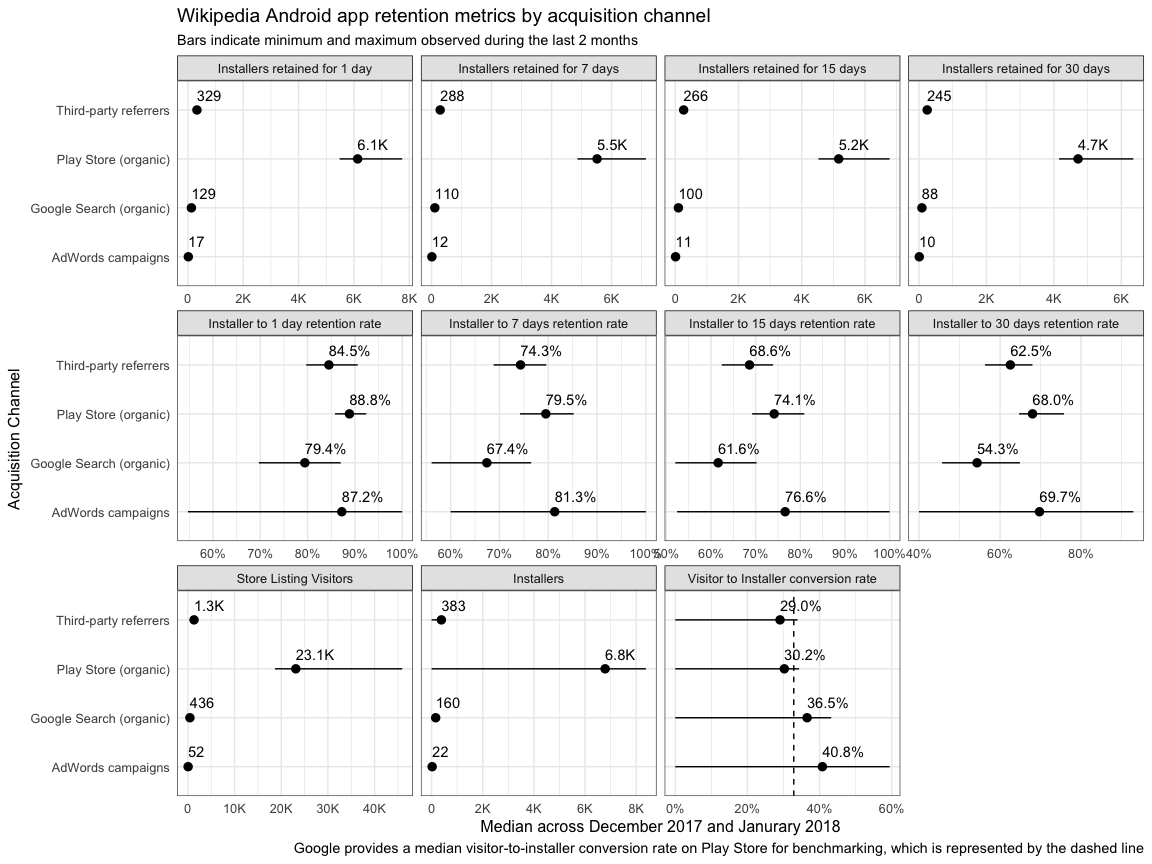
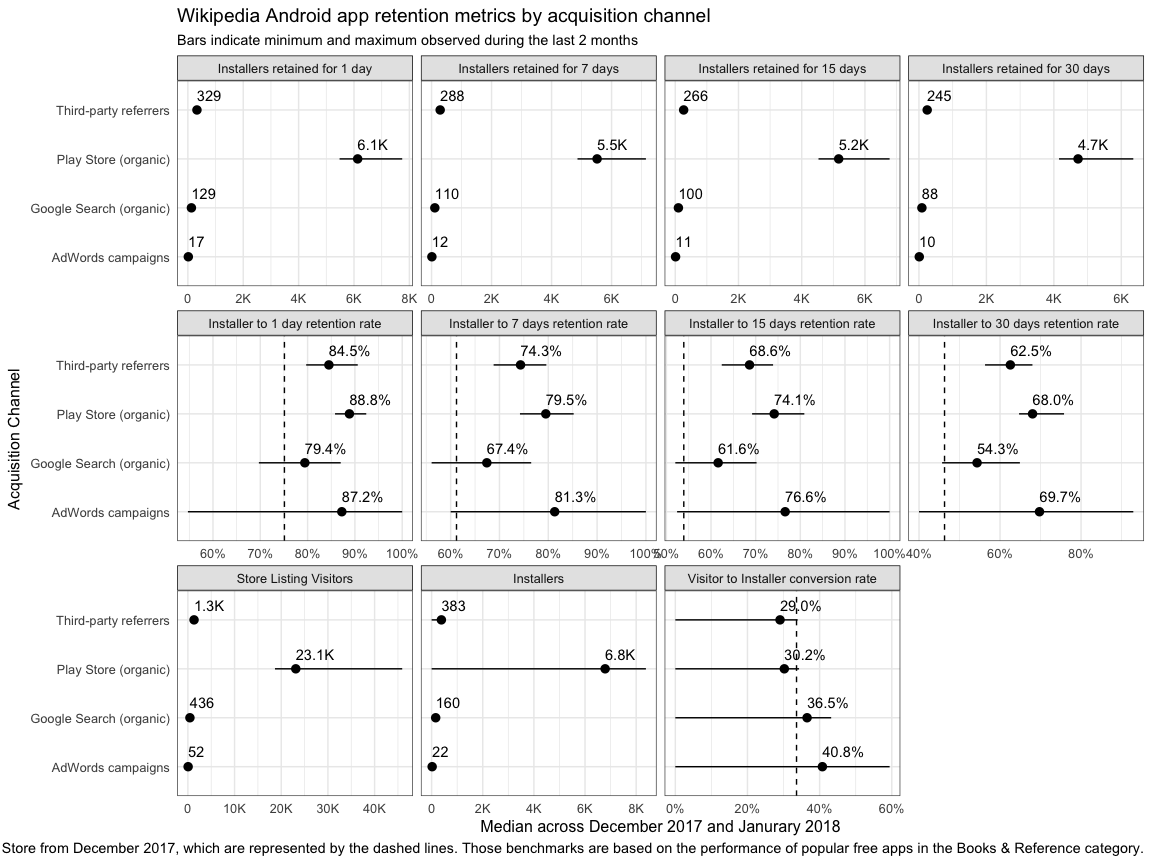
App rating breakdown by languages and countries

Changed region(s): [[0.0, 0.9688, 1.0, 1.0]]

diff --git a/T184089/README.md b/T184089/README.md
@@ -3,9 +3,16 @@ Understand Android app usage by market
 
 This report for Phabricator ticket
 [T184089](https://phabricator.wikimedia.org/T184089) was last generated
-on February 01, 2018.
+on February 02, 2018.
 
 ## Retained Installs
+
+**Acquisition channels** in [acquisition
+reports](https://play.google.com/apps/publish/?account=6169333749249604352#AcquisitionPerformancePlace:p=org.wikipedia&apr=RETAINED_INSTALLERS)
+include Play Store (users find the app by browsing or searching on the
+Play Store app), Google Search, third-party referrers (users find the
+app via an untagged deep link to the Play Store), and AdWords (Google’s
+advertising service).
 
 ![](README_files/figure-gfm/retained_channels-1.png)<!-- -->
 
@@ -13,14 +20,15 @@ on February 01, 2018.
     install it and fewer still keep it installed for more than a day.
   - Users tend to find the app organically through the Play Store (and
     that’s *basically* it).
-  - We are very close to the median visit-to-install conversion rate
-    across the whole Play Store.
   - A little over a third of users who found the app via Google Search
     end up installing it.
   - Users who found the app via Play Store and AdWords campaigns and
     then installed it were more likely to keep the app installed for 30
     days than users who found it via Google search and other third-party
     referrers.
+  - Compared to the median conversion and retention rates, the Wikipedia
+    app is way better at 1/7/15/30-day install retention than other
+    popular free apps in the *Books & Reference* category.
 
 ![](README_files/figure-gfm/retained_region-1.png)<!-- -->
 
@@ -40,9 +48,34 @@ on February 01, 2018.
 
 ## Ratings
 
+[App ratings over
+time](https://play.google.com/apps/publish/?account=6169333749249604352#RatingsPlace:p=org.wikipedia)
+are calculated from users’ 1-5 star ratings.
+
 ![](README_files/figure-gfm/ratings_summary-1.png)<!-- -->
 
-TODO: breakdown by country & language
+![](README_files/figure-gfm/ratings_languages-1.png)<!-- -->
+
+  - The languages whose users rated the app the lowest (e.g. Norwegian
+    and Japanese) are still close to 4 stars on average.
+
+**Note to self**: would be useful at some point to also compare by
+families of languages, to see if we’re doing well/poorly in specific
+families (e.g. Caucasian vs Asian vs Indo-European).
+
+![](README_files/figure-gfm/ratings_region-1.png)<!-- -->
+
+  - The average rating is lowest in Africa across all regions.
+  - Regions where the app is rated the lowest include:
+      - Micronesia (e.g. Palau, Northern Mariana Islands, Federated
+        States of Micronesia)
+      - Western Europe (e.g. Belgium, France, Germany)
+      - Eastern Asia (e.g. Japan, South Korea)
+  - Regions where the app is rated the highest include:
+      - Polynesia (Samoa, American Samoa, French Polynesia)
+      - Eastern Europe (e.g. Belarus, Poland, Russia)
+      - Central Asia (e.g. Kazakhstan, Tajikistan, Uzbekistan)
+      - Southern Asia (e.g. India, Afghanistan, Pakistan)
 
 ## Sessions
 
